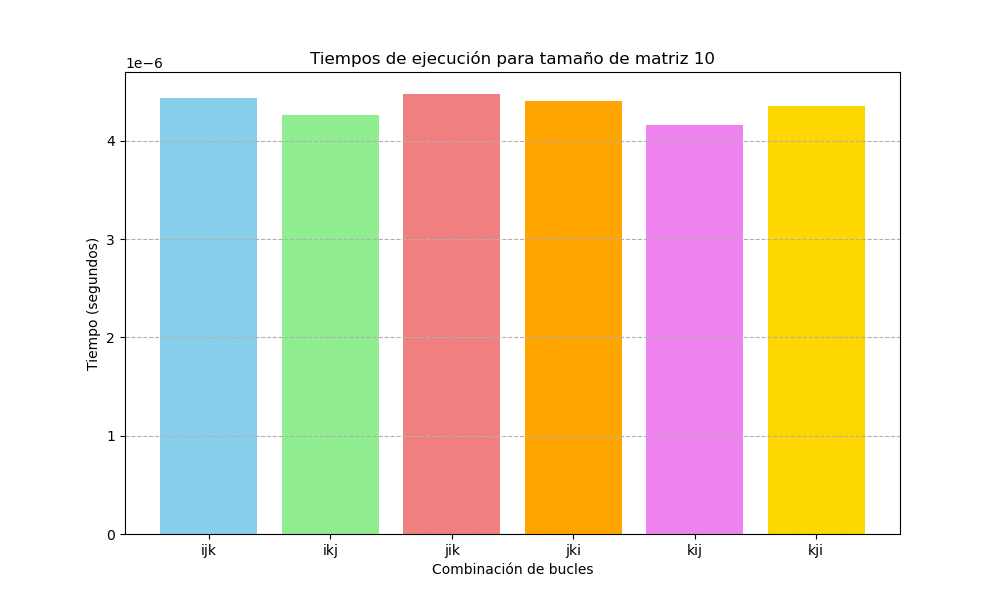
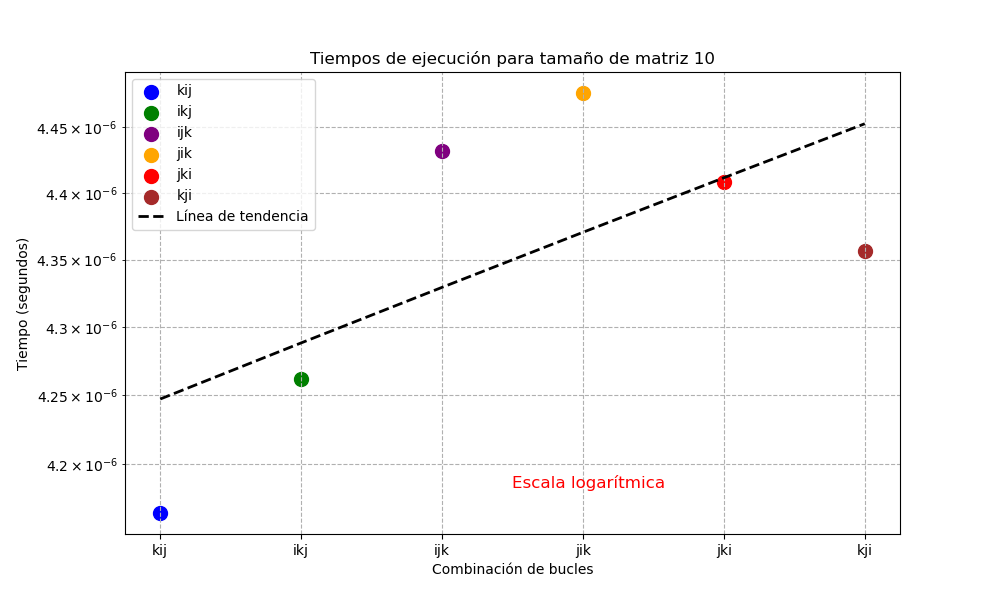
Add files via upload

diff --git a/graficas2.py b/graficas2.py
@@ -1,0 +1,84 @@
+import pandas as pd
+import matplotlib.pyplot as plt
+import numpy as np
+from scipy.stats import linregress
+
+# Leer el archivo CSV con los tiempos
+df = pd.read_csv("tiempos.csv")
+
+# Mostrar los datos
+print("Datos leídos del archivo CSV:")
+print(df)
+
+# Combinaciones a analizar (en el orden especificado)
+combinaciones = ["kij", "ikj", "ijk", "jik", "jki", "kji"]
+
+# Colores para las gráficas
+colores = {
+    "kij": "blue",
+    "ikj": "green",
+    "ijk": "purple",
+    "jik": "orange",
+    "jki": "red",
+    "kji": "brown"
+}
+
+# Función para graficar con escala logarítmica o lineal
+def graficar_tiempos(tamaño, escala_log):
+    # Filtrar los datos para el tamaño de matriz actual
+    datos = df[df["tamaño"] == tamaño]
+    
+    plt.figure(figsize=(10, 6))
+    for combinacion in combinaciones:
+        # Graficar puntos de dispersión
+        plt.scatter(combinacion, datos[combinacion].values[0], color=colores[combinacion], label=combinacion, s=100)
+    
+    # Calcular y dibujar la línea de tendencia
+    x = np.arange(len(combinaciones))
+    y = [datos[comb].values[0] for comb in combinaciones]
+    slope, intercept, r_value, p_value, std_err = linregress(x, y)
+    plt.plot(combinaciones, slope * x + intercept, color="black", linestyle="--", linewidth=2, label="Línea de tendencia")
+    
+    plt.title(f"Tiempos de ejecución para tamaño de matriz {tamaño}")
+    plt.xlabel("Combinación de bucles")
+    plt.ylabel("Tiempo (segundos)")
+    
+    if escala_log:
+        plt.yscale("log")
+        plt.grid(True, which="both", ls="--")
+        plt.text(0.5, 0.1, "Escala logarítmica", transform=plt.gca().transAxes, fontsize=12, color="red")
+    else:
+        plt.grid(True, axis='y', ls="--")
+    
+    plt.legend()
+    plt.savefig(f"tiempos_tamaño_{tamaño}.png")  # Guardar la gráfica en PNG
+    plt.close()
+
+# Gráficas para cada tamaño de matriz
+tamanos = [10, 100, 500, 1000, 3000, 5000, 10000]
+escalas_log = [True, True, True, False, False, False, False]  # Escala log para 10, 100, 500
+
+for tamaño, escala_log in zip(tamanos, escalas_log):
+    graficar_tiempos(tamaño, escala_log)
+
+# Gráfica de dispersión de los tiempos promedios
+promedios = df[combinaciones].mean()
+plt.figure(figsize=(10, 6))
+for combinacion in combinaciones:
+    plt.scatter(combinacion, promedios[combinacion], color=colores[combinacion], label=combinacion, s=100)
+
+# Línea de tendencia para los promedios
+x = np.arange(len(combinaciones))
+y = [promedios[comb] for comb in combinaciones]
+slope, intercept, r_value, p_value, std_err = linregress(x, y)
+plt.plot(combinaciones, slope * x + intercept, color="black", linestyle="--", linewidth=2, label="Línea de tendencia")
+
+plt.title("Tiempos promedios de ejecución por combinación de bucles")
+plt.xlabel("Combinación de bucles")
+plt.ylabel("Tiempo promedio (segundos)")
+plt.grid(True, axis='y', ls="--")
+plt.legend()
+plt.savefig("tiempos_promedios.png")  # Guardar la gráfica en PNG
+plt.close()
+
+print("Gráficas generadas y guardadas como imágenes PNG.")
